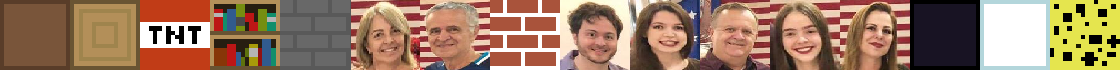
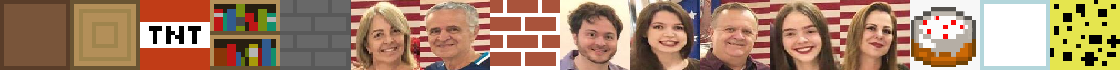
final

Changed region(s): [[0.8125, 0.0, 0.875, 1.0]]

diff --git a/js/world.js b/js/world.js
@@ -116,7 +116,10 @@ World.prototype.toNetworkString = function()
 World.prototype.loadFromFile = function( filename )
 {
 	// var fs = require( "fs" );
-	const fileContent = localStorage.getItem(filename);
+	let fileContent = localStorage.getItem(filename);
+	if(!fileContent) {
+		fileContent = "2,7,6,ccccccaaaaaaaaaaccccccaaaaaaaaaaccccccaaaaaaaaaaccccccaaaaaaaaaaccccccaaaaaaaaaaccccccaaaaaaaaaaccccccaaaaaaaaaaccccccaaaaaaaaaaccccccaaaaaaaaaaccccccaaaaaaaaaaccccccaaaaaaaaaaccccccaaaaaaaaaaccccccaaaaaaaaaaccccccaaaaaaaaaaccccccaaaaaaaaaaccccccaaaaaaaaaaccccccaaaaaaaaaacccccckkaaaaaaaacccccckkaaaaaaaacccccckkaaaaaaaacccccckkaaaaaaaacccccckkaaaaaaaaccccccaaaaaaaaaaccccccaaaaaaaaaacccccckkaaaaaaaacccccckkaaaaaaaacccccckkaaaaaaaacccccckkaaaaaaaacccccckkaaaaaaaacccccckkaaaaaaaaccccccaaaaaaaaaaccccccaaaaaaaaaaccccccaaaaaaaaaacccccckkaaaaaaaaccccccaaaaaaaaaaccccccaaaaaaaaaaccccccaaaaaaaaaaccccccaaaaaaaaaaccccccaaaaaaaaaaccccccaaaaaaaaaaccccccaaaaaaaaaaccccccaaaaaaaaaaccccccaaaaaaaaaaccccccffaaaaaaaaccccccffaaaaaaaacccccckkaaaaaaaaccccccaaaaaaaaaaccccccaaaaaaaaaaccccccaaaaaaaaaacccccckkaaaaaaaaccccccaaaaaaaaaaccccccaaaaaaaaaaccccccaaaaaaaaaaccccccaaaaaaaaaaccccccaaaaaaaaaaccccccaaaaaaaaaaccccccaaaaaaaaaaccccccaaaaaaaaaaccccccaaaaaaaaaaccccccffaaaaaaaaccccccffaaaaaaaacccccckkaaaaaaaaccccccaaaaaaaaaaccccccaaaaaaaaaaccccccaaaaaaaaaacccccckkaaaaaaaaccccccaaaaaaaaaaccccccaaaaaaaaaaccccccaaaaaaaaaaccccccaaaaaaaaaaccccccaaaaaaaaaacccccclaaaaaaaaaccccccaaaaaaaaaaccccccaaaaaaaaaaccccccaaaaaaaaaaccccccaaaaaaaaaaccccccaaaaaaaaaacccccckkaaaaaaaaccccccaaaaaaaaaaccccccaaaaaaaaaaccccccaaaaaaaaaacccccckkaaaaaaaaccccccdaaaaaaaaaccccccdaaaaaaaaaccccccaaaaaaaaaaccccccaaaaaaaaaaccccccaaaaaaaaaaccccccmaaaaaaaaaccccccaaaaaaaaaaccccccaaaaaaaaaaccccccaaaaaaaaaaccccccaaaaaaaaaaccccccaaaaaaaaaacccccckkaaaaaaaaccccccaaaaaaaaaaccccccaaaaaaaaaaccccccaaaaaaaaaacccccckkaaaaaaaaccccccdaaaaaaaaaccccccdqaaaaaaaaccccccaaaaaaaaaaccccccaaaaaaaaaaccccccaaaaaaaaaaccccccaaaaaaaaaaccccccaaaaaaaaaaccccccaaaaaaaaaaccccccaaaaaaaaaaccccccaaaaaaaaaaccccccaaaaaaaaaacccccckkaaaaaaaaccccccaaaaaaaaaaccccccaaaaaaaaaaccccccaaaaaaaaaacccccckkaaaaaaaaccccccdaaaaaaaaaccccccdaaaaaaaaaccccccaaaaaaaaaaccccccaaaaaaaaaaccccccjaaaaaaaaaccccccaaaaaaaaaaccccccoaaaaaaaaaccccccaaaaaaaaaaccccccaaaaaaaaaaccccccaaaaaaaaaaccccccaaaaaaaaaacccccckkaaaaaaaaccccccaaaaaaaaaaccccccaaaaaaaaaaccccccaaaaaaaaaacccccckkaaaaaaaaccccccaaaaaaaaaaccccccaaaaaaaaaaccccccaaaaaaaaaaccccccaaaaaaaaaacccccciaaaaaaaaaccccccaaaaaaaaaaccccccaaaaaaaaaaccccccaaaaaaaaaaccccccaaaaaaaaaaccccccaaaaaaaaaaccccccaaaaaaaaaacccccckkaaaaaaaaccccccaaaaaaaaaaccccccaaaaaaaaaaccccccaaaaaaaaaacccccckkaaaaaaaaccccccaaaaaaaaaaccccccaaaaaaaaaaccccccaaaaaaaaaaccccccaaaaaaaaaaccccccaaaaaaaaaaccccccaaaaaaaaaaccccccpaaaaaaaaaccccccaaaaaaaaaaccccccaaaaaaaaaaccccccaaaaaaaaaaccccccaaaaaaaaaacccccckkaaaaaaaaccccccaaaaaaaaaaccccccaaaaaaaaaaccccccaaaaaaaaaacccccckkaaaaaaaaccccccaaaaaaaaaaccccccaaaaaaaaaaccccccaaaaaaaaaaccccccaaaaaaaaaaccccccaaaaaaaaaaccccccaaaaaaaaaaccccccnaaaaaaaaaccccccaaaaaaaaaaccccccaaaaaaaaaaccccccaaaaaaaaaaccccccaaaaaaaaaacccccckkaaaaaaaaccccccaaaaaaaaaaccccccaaaaaaaaaaccccccaaaaaaaaaacccccckkaaaaaaaaccccccaaaaaaaaaaccccccaaaaaaaaaaccccccaaaaaaaaaaccccccaaaaaaaaaaccccccaaaaaaaaaaccccccaaaaaaaaaaccccccaaaaaaaaaaccccccaaaaaaaaaaccccccaaaaaaaaaaccccccaaaaaaaaaaccccccaaaaaaaaaacccccckkaaaaaaaaccccccaaaaaaaaaaccccccaaaaaaaaaaccccccaaaaaaaaaacccccckkaaaaaaaaccccccaaaaaaaaaaccccccaaaaaaaaaaccccccaaaaaaaaaaccccccaaaaaaaaaaccccccaaaaaaaaaaccccccaaaaaaaaaaccccccaaaaaaaaaaccccccaaaaaaaaaaccccccaaaaaaaaaaccccccaaaaaaaaaaccccccaaaaaaaaaacccccckkaaaaaaaaccccccaaaaaaaaaaccccccaaaaaaaaaaccccccaaaaaaaaaacccccckkaaaaaaaaccccccaaaaaaaaaaccccccaaaaaaaaaaccccccaaaaaaaaaaccccccaaaaaaaaaaccccccaaaaaaaaaaccccccaaaaaaaaaaccccccaaaaaaaaaaccccccaaaaaaaaaaccccccaaaaaaaaaacccccceeaaaaaaaacccccceeaaaaaaaacccccckkaaaaaaaaccccccaaaaaaaaaaccccccaaaaaaaaaaccccccaaaaaaaaaacccccckkaaaaaaaacccccckkaaaaaaaacccccckkaaaaaaaacccccckkaaaaaaaacccccckkaaaaaaaacccccckkaaaaaaaacccccckkaaaaaaaacccccckkaaaaaaaacccccckkaaaaaaaacccccckkaaaaaaaacccccckkaaaaaaaacccccckkaaaaaaaacccccckaaaaaaaaaccccccaaaaaaaaaaccccccaaaaaaaaaaccccccaaaaaaaaaaccccccaaaaaaaaaaccccccaaaaaaaaaaccccccaaaaaaaaaaccccccaaaaaaaaaaccccccaaaaaaaaaaccccccaaaaaaaaaaccccccaaaaaaaaaaccccccaaaaaaaaaaccccccaaaaaaaaaaccccccaaaaaaaaaaccccccaaaaaaaaaaccccccaaaaaaaaaaccccccaaaaaaaaaaccccccaaaaaaaaaaccccccaaaaaaaaaa";
+	}
 	try {
 		// fs.lstatSync( filename );
 		// var data = fs.readFileSync( filename, "utf8" ).split( "," );
